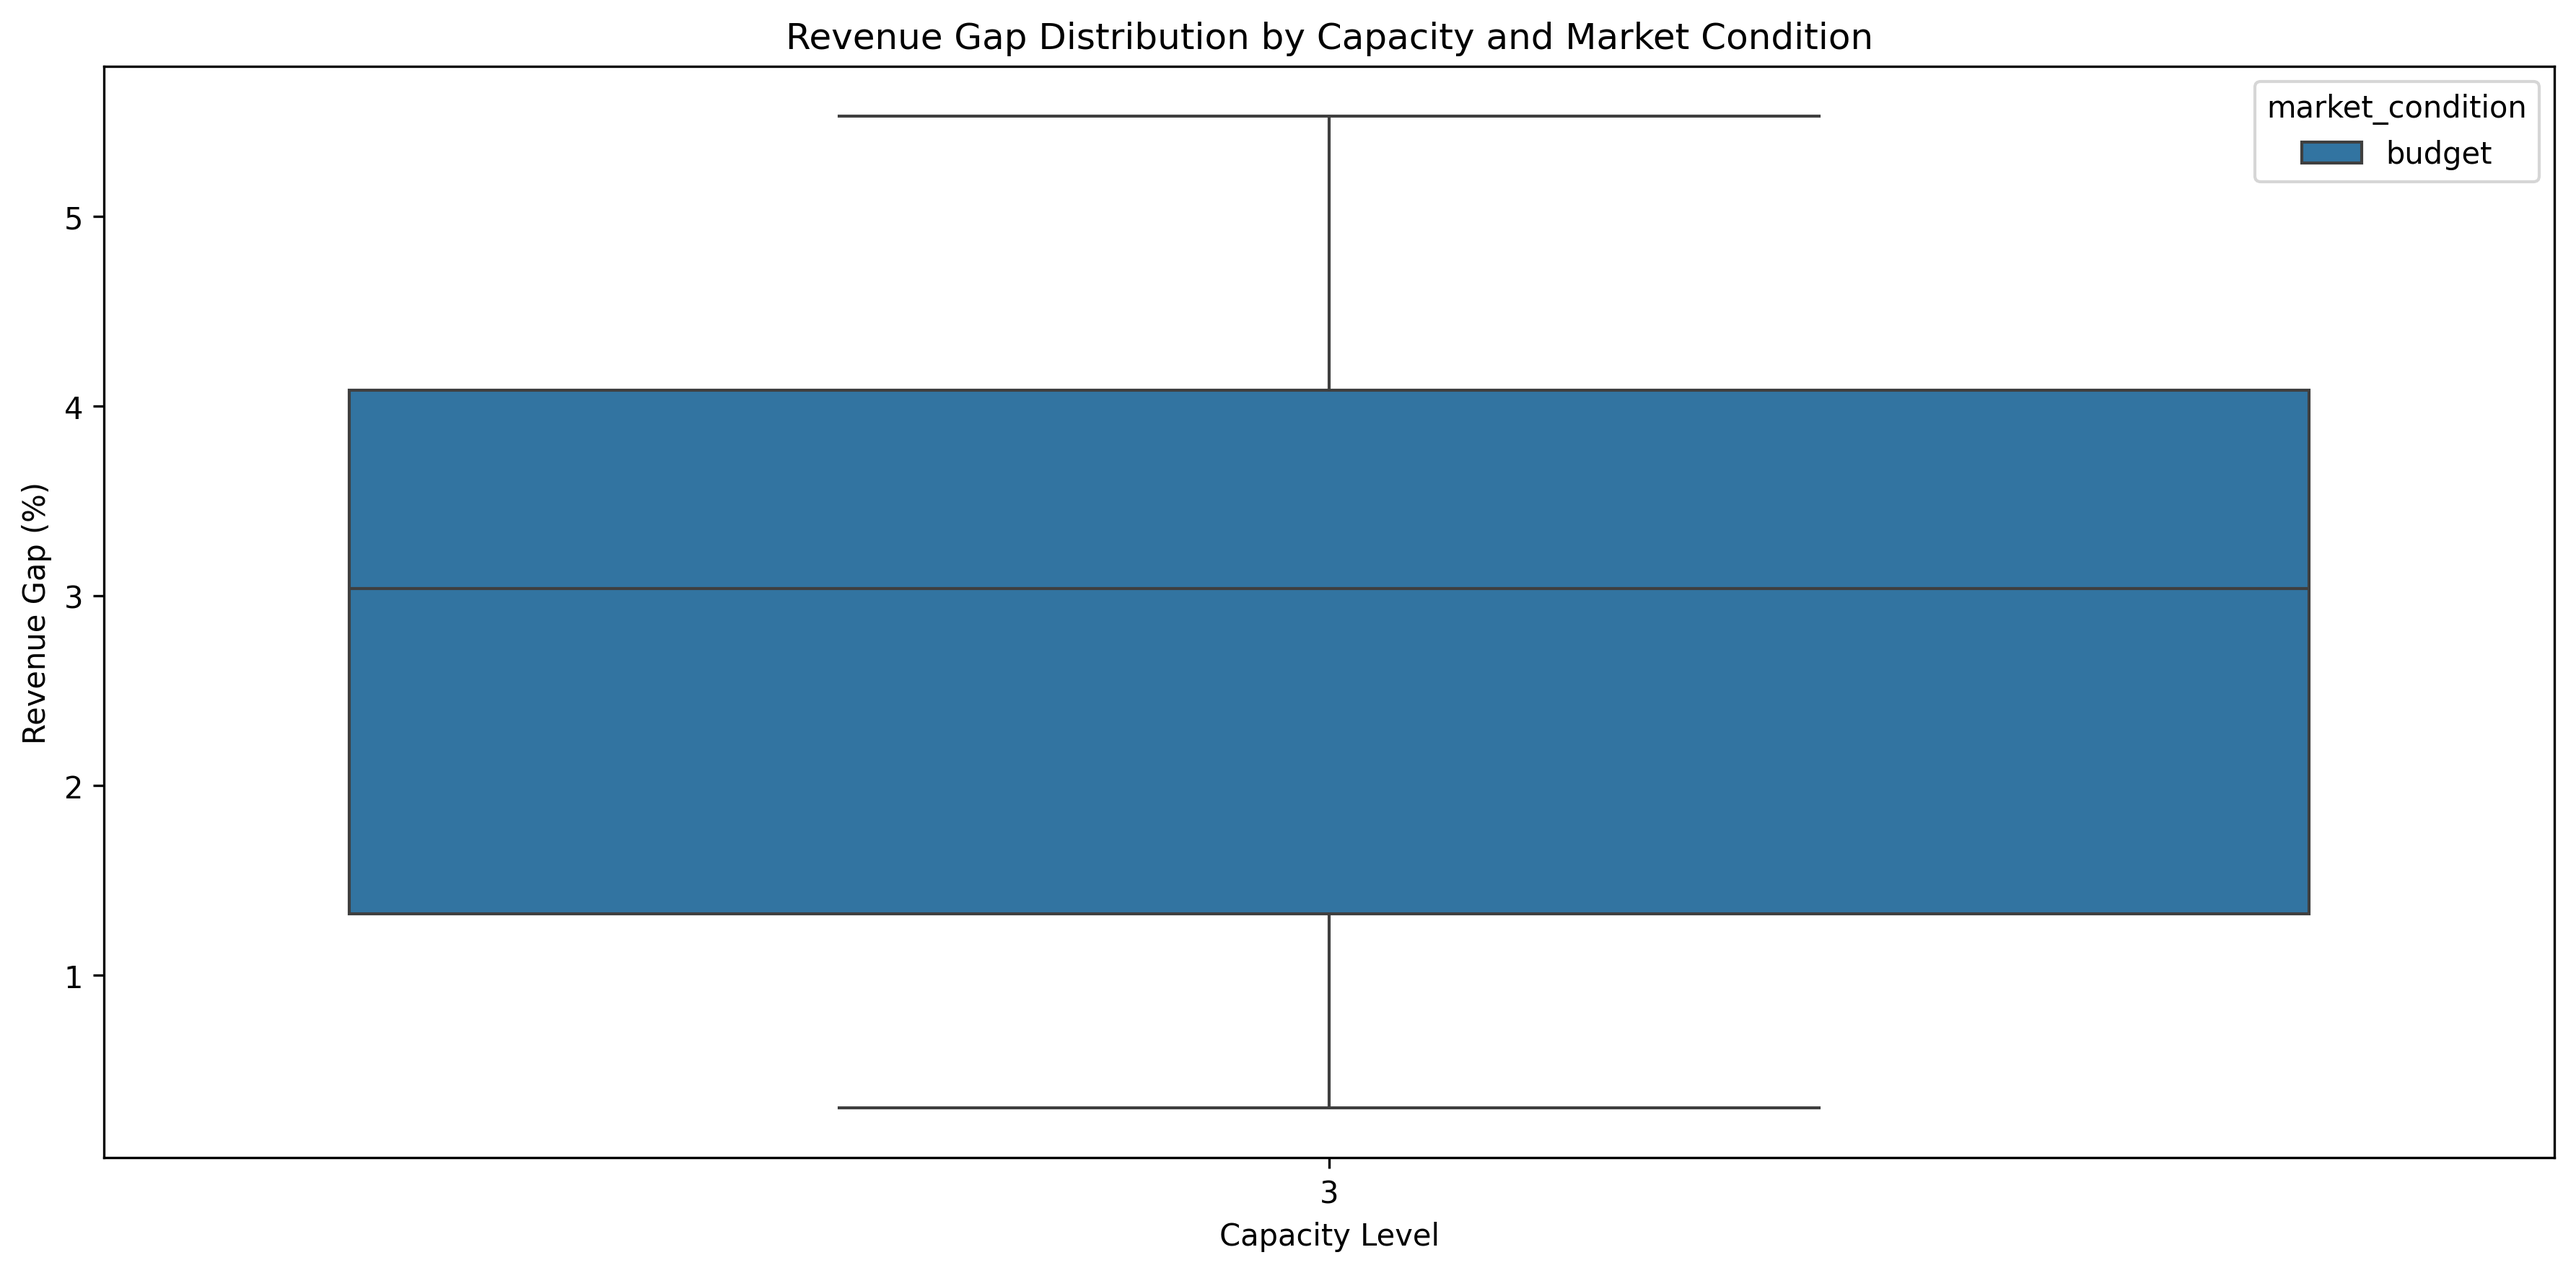
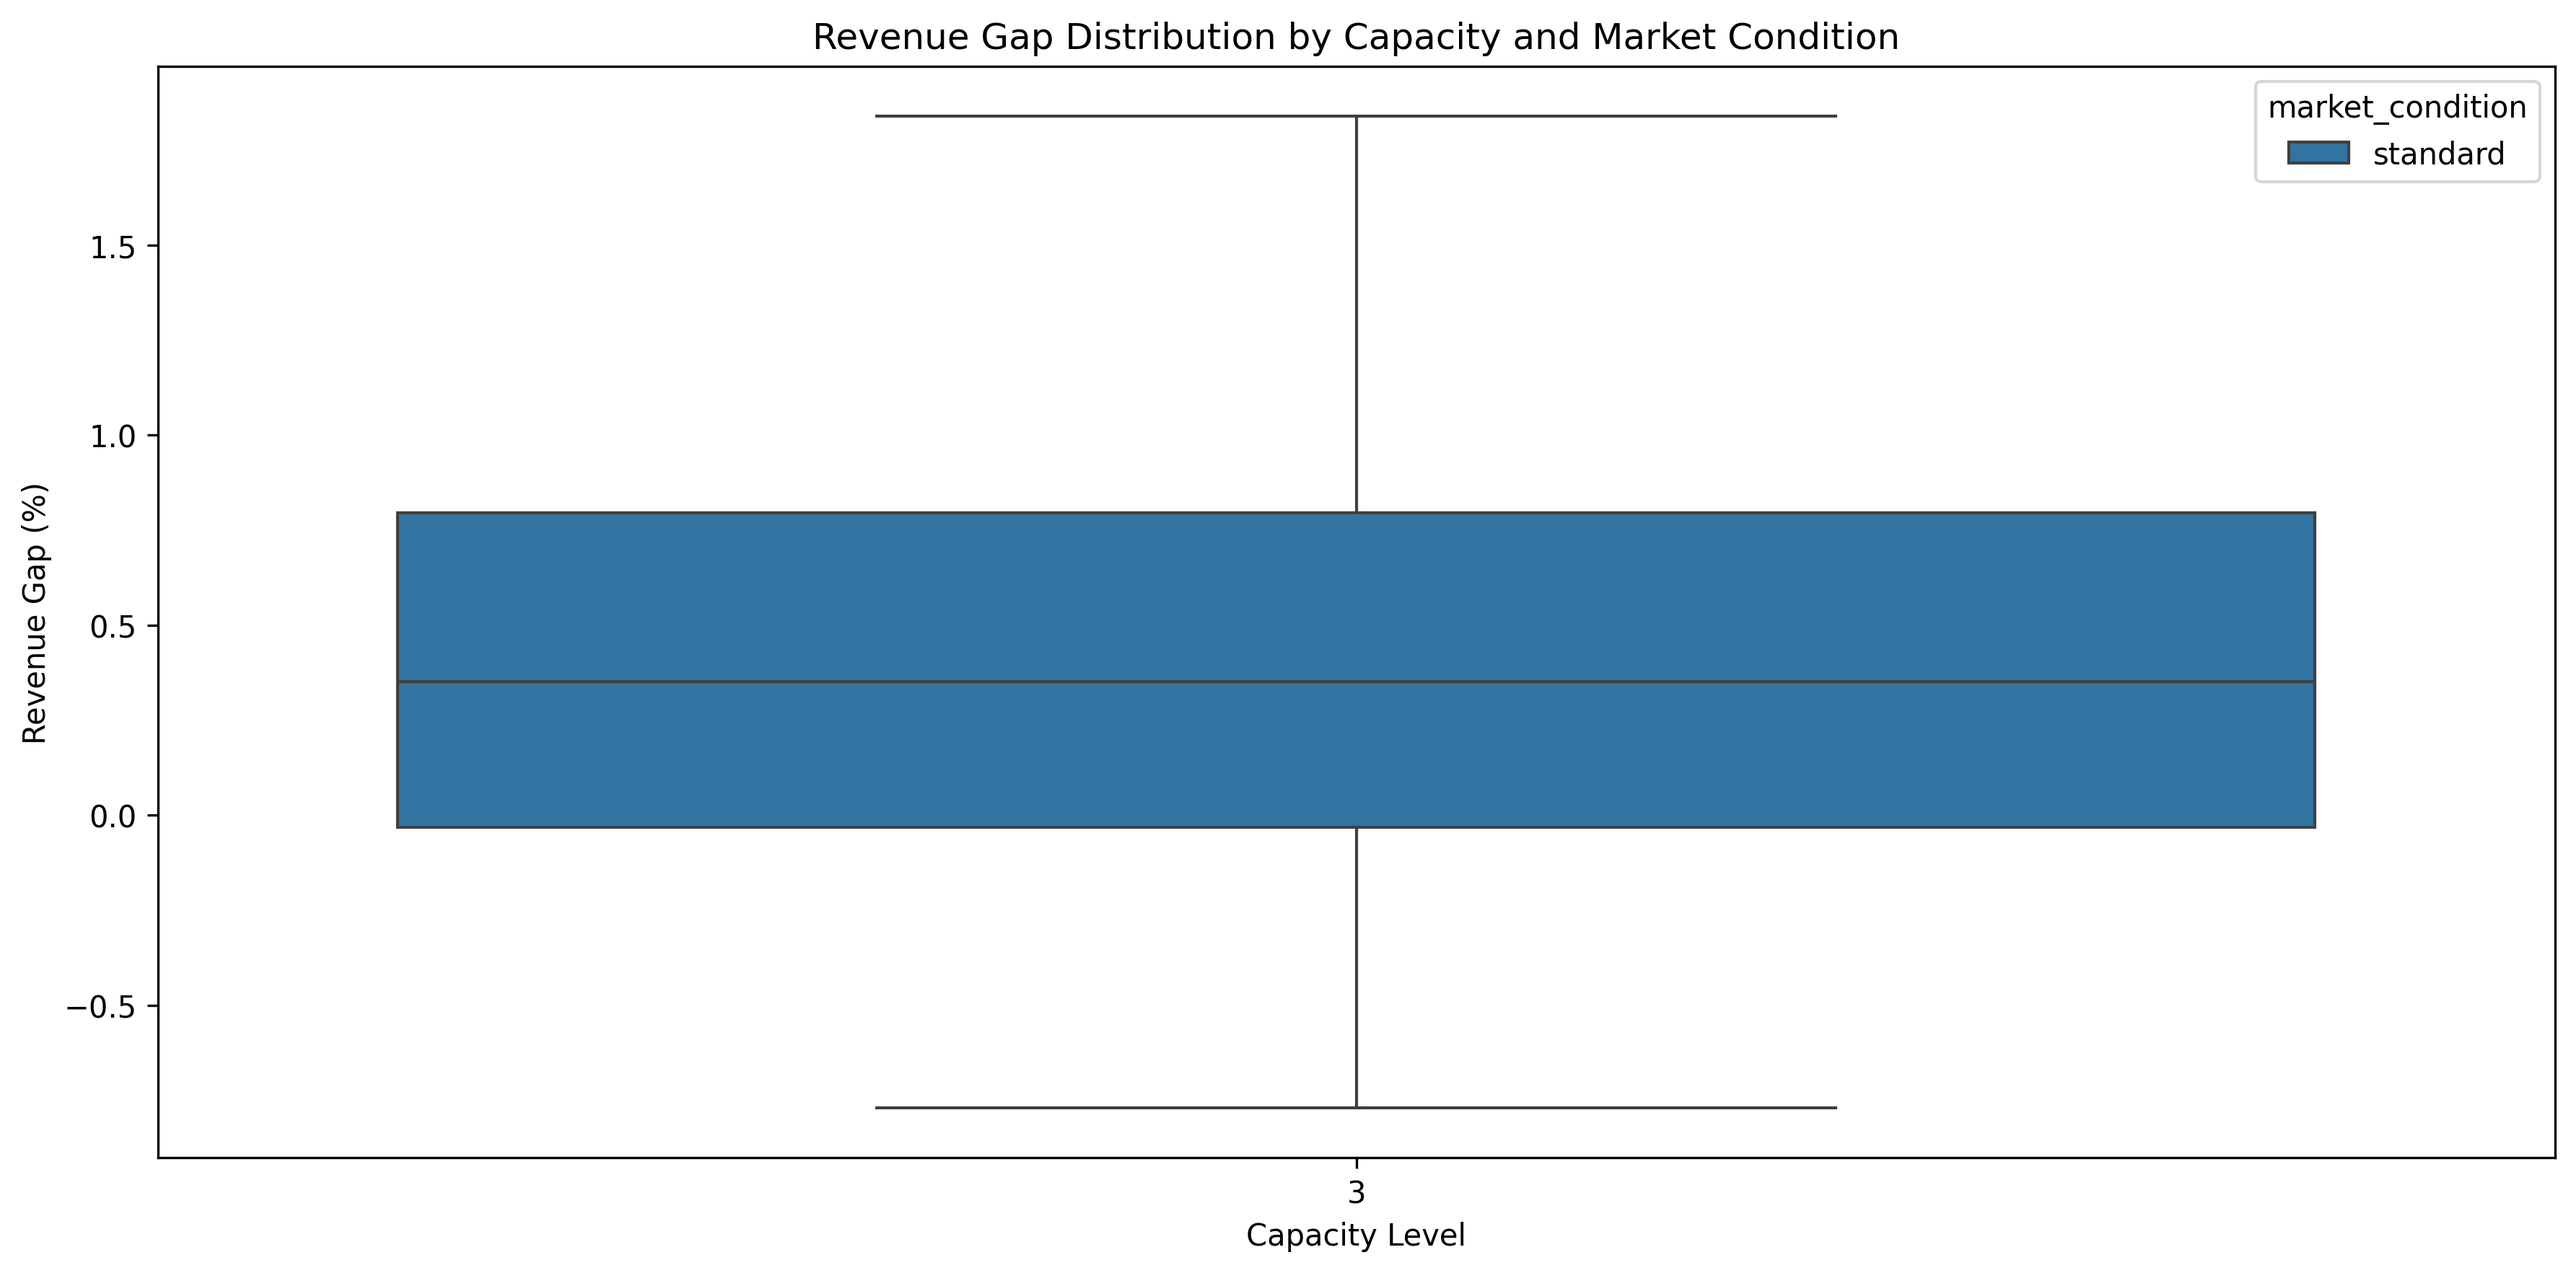
Minor update on Experiment1Runner validation methods

diff --git a/src/experiment1_solution_quality_assessment.py b/src/experiment1_solution_quality_assessment.py
@@ -16,7 +16,7 @@ import itertools
 import os
 
 from data_generator import TestConfiguration, create_test_instance
-from dynamic_pricing_algorithms import DynamicProgramming, StochasticApproximation
+from dynamic_pricing_algorithms import DynamicProgramming, StochasticApproximation, DPState
 
 # Configure logging
 logging.basicConfig(
@@ -58,8 +58,8 @@ class Experiment1Runner:
         logger.info(f"Results will be saved to: {self.output_dir}")
         
         # Define experiment parameters
-        self.T = 7  # Booking horizon
-        self.N = 7  # Service horizon
+        self.T = 5  # Booking horizon
+        self.N = 3  # Service horizon
         
         # Define parameter ranges for test instances
         # self.capacity_levels = [3, 5, 7]  # Small capacities for tractable DP
@@ -83,68 +83,11 @@ class Experiment1Runner:
         self.num_replications = 30  # Number of replications per configuration
         self.confidence_level = 0.95
         
-    def _validate_revenue_calculations(self,
-                                path: List[Tuple],
-                                dp_policy: Dict,
-                                dp_revenue: float,
-                                saa_prices: Dict,
-                                saa_revenue: float,
-                                tolerance: float = 1e-10) -> bool:
-        """
-        Verify that revenue calculations match exactly between DP and SAA evaluations.
-
-        Args:
-            path: Evaluation path
-            dp_policy: DP policy mapping states to prices
-            dp_revenue: Total revenue from DP evaluation
-            saa_prices: SAA price vectors
-            saa_revenue: Total revenue from SAA evaluation
-            tolerance: Numerical tolerance for floating point comparisons
-
-        Returns:
-            bool: True if revenue calculations are consistent
-        """
-        # Recalculate revenues step by step
-        dp_revenue_check = 0.0
-        saa_revenue_check = 0.0
-        capacity = np.full(self.N, self.C, dtype=np.int32)
-
-        for t, bt, qt in path:
-            if bt is not None:
-                # Check DP revenue calculation
-                state = DPState(capacity=tuple(capacity), time=t)
-                if state in dp_policy:
-                    stay_nights = self.class_stays[bt]
-                    if all(capacity[i] >= 1 for i in stay_nights):
-                        dp_prices = [dp_policy[state][i] for i in stay_nights]
-                        dp_avg_price = sum(dp_prices) / len(stay_nights)
-                        if qt >= dp_avg_price:
-                            dp_revenue_check += sum(dp_prices)
-
-                # Check SAA revenue calculation
-                stay_nights = self.class_stays[bt]
-                if all(capacity[i] >= 1 for i in stay_nights):
-                    saa_prices_stay = [saa_prices[t][i] for i in stay_nights]
-                    saa_avg_price = sum(saa_prices_stay) / len(stay_nights)
-                    if qt >= saa_avg_price:
-                        saa_revenue_check += sum(saa_prices_stay)
-
-        # Verify calculations match reported revenues
-        dp_match = abs(dp_revenue - dp_revenue_check) < tolerance
-        saa_match = abs(saa_revenue - saa_revenue_check) < tolerance
-
-        if not (dp_match and saa_match):
-            logger.warning("Revenue calculation mismatch detected")
-            logger.warning(f"DP Revenue: reported={dp_revenue:.2f}, calculated={dp_revenue_check:.2f}")
-            logger.warning(f"SAA Revenue: reported={saa_revenue:.2f}, calculated={saa_revenue_check:.2f}")
-
-        return dp_match and saa_match
-    
     def generate_test_instance(self, 
-                             capacity: int,
-                             demand_scenario: str,
-                             market_condition: str,
-                             seed: int) -> Dict:
+                         capacity: int,
+                         demand_scenario: str,
+                         market_condition: str,
+                         seed: int) -> Dict:
         """Generate a single test instance with specified parameters."""
         # Configure test parameters
         config = TestConfiguration()
@@ -168,6 +111,69 @@ class Experiment1Runner:
             test_configuration=test_params,
             seed=seed
         )
+    
+    def _validate_revenue_calculations(self,
+                                    path: List[Tuple],
+                                    dp_policy: Dict,
+                                    dp_revenue: float,
+                                    saa_prices: Dict,
+                                    saa_revenue: float,
+                                    instance: Dict,
+                                    tolerance: float = 1e-10) -> bool:
+        """
+        Verify that revenue calculations match exactly between DP and SAA evaluations.
+
+        Args:
+            path: Evaluation path
+            dp_policy: DP policy mapping states to prices
+            dp_revenue: Total revenue from DP evaluation
+            saa_prices: SAA price vectors
+            saa_revenue: Total revenue from SAA evaluation
+            instance: Test instance dictionary containing problem parameters
+            tolerance: Numerical tolerance for floating point comparisons
+
+        Returns:
+            bool: True if revenue calculations are consistent
+        """
+        # Get parameters from instance
+        N = instance['parameters'].N
+        C = instance['parameters'].C
+
+        # Recalculate revenues step by step
+        dp_revenue_check = 0.0
+        saa_revenue_check = 0.0
+        capacity = np.full(N, C, dtype=np.int32)
+
+        for t, bt, qt in path:
+            if bt is not None:
+                # Check DP revenue calculation
+                state = DPState(capacity=tuple(capacity), time=t)
+                if state in dp_policy:
+                    stay_nights = instance['booking_classes']
+                    if all(capacity[i] >= 1 for i in stay_nights):
+                        dp_prices = [dp_policy[state][i] for i in stay_nights]
+                        dp_avg_price = sum(dp_prices) / len(stay_nights)
+                        if qt >= dp_avg_price:
+                            dp_revenue_check += sum(dp_prices)
+
+                # Check SAA revenue calculation
+                stay_nights = instance['booking_classes']
+                if all(capacity[i] >= 1 for i in stay_nights):
+                    saa_prices_stay = [saa_prices[t][i] for i in stay_nights]
+                    saa_avg_price = sum(saa_prices_stay) / len(stay_nights)
+                    if qt >= saa_avg_price:
+                        saa_revenue_check += sum(saa_prices_stay)
+
+        # Verify calculations match reported revenues
+        dp_match = abs(dp_revenue - dp_revenue_check) < tolerance
+        saa_match = abs(saa_revenue - saa_revenue_check) < tolerance
+
+        if not (dp_match and saa_match):
+            logger.warning("Revenue calculation mismatch detected")
+            logger.warning(f"DP Revenue: reported={dp_revenue:.2f}, calculated={dp_revenue_check:.2f}")
+            logger.warning(f"SAA Revenue: reported={saa_revenue:.2f}, calculated={saa_revenue_check:.2f}")
+
+        return dp_match and saa_match
     
     def _enhanced_path_validation(self, paths: List, instance: Dict):
         """
@@ -207,11 +213,12 @@ class Experiment1Runner:
         logger.info("Enhanced path validation completed successfully")
         
     def _verify_evaluation_consistency(self,
-                                evaluation_paths: List,
-                                dp_policy: Dict,
-                                dp_revenue: float,
-                                saa_prices: Dict,
-                                saa_revenue: float) -> bool:
+                                    evaluation_paths: List,
+                                    dp_policy: Dict,
+                                    dp_revenue: float,
+                                    saa_prices: Dict,
+                                    saa_revenue: float,
+                                    instance: Dict) -> bool:
         """
         Comprehensive verification of evaluation consistency between DP and SAA.
 
@@ -221,6 +228,7 @@ class Experiment1Runner:
             dp_revenue: Total revenue from DP evaluation
             saa_prices: SAA price vectors
             saa_revenue: Total revenue from SAA evaluation
+            instance: Test instance dictionary
 
         Returns:
             bool: True if all consistency checks pass
@@ -232,14 +240,13 @@ class Experiment1Runner:
                 dp_policy,
                 dp_revenue,
                 saa_prices,
-                saa_revenue
+                saa_revenue,
+                instance
             )
 
             if not revenue_consistent:
                 logger.error("Revenue calculation consistency check failed")
                 return False
-
-            # Additional consistency checks can be added here
 
             return True
 
@@ -247,64 +254,56 @@ class Experiment1Runner:
             logger.error(f"Error in evaluation consistency check: {str(e)}")
             return False
         
-    def run_single_instance(self,
-                          instance: Dict,
-                          replication: int,
-                          eval_seed: int = None) -> Dict:
-        """Run both DP and SAA on a single test instance with shared sample paths.
-        
-        Args:
-            instance: Test instance dictionary
-            replication: Replication number
-            eval_seed: Seed for generating evaluation paths (ensures consistency)
-        """
+    def run_single_instance(self, instance: Dict, replication: int, eval_seed: int = None) -> Dict:
+        """Run both DP and SAA on a single test instance with shared sample paths."""
         try:
-            # Initialize SAA first to generate sample paths
+            # Initialize SAA
             saa = StochasticApproximation(instance, self.learning_params)
-            
-            # Set evaluation seed for consistent path generation
+
+            # Set evaluation seed
             eval_rng = np.random.default_rng(eval_seed if eval_seed is not None 
                                            else 1000 * replication)
-            
-            # Generate fixed sample paths for evaluation using controlled RNG
+
+            # Generate evaluation paths
             num_eval_paths = 1000
             evaluation_paths = []
             for _ in range(num_eval_paths):
                 path = saa._generate_sample_path(rng=eval_rng)
                 evaluation_paths.append(path)
-                
+
             # Enhanced validation
             self._enhanced_path_validation(evaluation_paths, instance)
-            
-            # Solve using Dynamic Programming
+
+            # Solve using DP
             dp = DynamicProgramming(instance)
             dp_start = datetime.now()
             dp_policy, _ = dp.solve()
             dp_time = (datetime.now() - dp_start).total_seconds()
-            
-            # Evaluate DP policy on the fixed sample paths
+
+            # Evaluate DP policy
             dp_revenue = dp.evaluate_policy(dp_policy, evaluation_paths)
-            
+
             # Solve using SAA
             saa_start = datetime.now()
             saa_prices, _, saa_time = saa.solve()
-            
-            # Evaluate SAA policy on the same fixed sample paths
+
+            # Evaluate SAA policy
             saa_revenue = saa.evaluate(saa_prices, evaluation_paths)
-            
+
             # Verify evaluation consistency
             if not self._verify_evaluation_consistency(
                 evaluation_paths,
                 dp_policy,
                 dp_revenue,
                 saa_prices,
-                saa_revenue
+                saa_revenue,
+                instance  # Pass instance to verification method
             ):
                 logger.warning("Evaluation consistency check failed")
-            
-            # Compute revenue gap
+
+            # Calculate revenue gap
             revenue_gap = ((dp_revenue - saa_revenue) / dp_revenue) * 100
-            
+
             return {
                 'capacity': instance['parameters'].C,
                 'demand_scenario': instance['scenario_info']['demand_scenario'],
@@ -318,7 +317,7 @@ class Experiment1Runner:
                 'num_eval_paths': num_eval_paths,
                 'eval_seed': eval_seed if eval_seed is not None else 1000 * replication
             }
-            
+
         except Exception as e:
             logger.error(f"Error processing instance: {str(e)}")
             return None

diff --git a/experiments/experiment1/results/experiment_report.md b/experiments/experiment1/results/experiment_report.md
@@ -4,39 +4,39 @@
 - Total test instances: 30
 - Capacity levels: [3]
 - Demand scenarios: ['base']
-- Market conditions: ['budget']
+- Market conditions: ['standard']
 - Replications per configuration: 30
 
 ## Overall Results
-- Mean revenue gap: 2.84%
-- Revenue gap 95% CI: [2.27%, 3.41%]
-- Mean DP solution time: 0.37 seconds
-- Mean SAA solution time: 25.29 seconds
+- Mean revenue gap: 0.40%
+- Revenue gap 95% CI: [0.17%, 0.63%]
+- Mean DP solution time: 0.42 seconds
+- Mean SAA solution time: 28.47 seconds
 
 ## Statistical Analysis
-- T-statistic: 10.5493
-- P-value: 0.0000
+- T-statistic: 3.6114
+- P-value: 0.0011
 
 ## Results by Capacity Level
 
 Capacity = 3
-- Mean revenue gap: 2.84%
-- Revenue gap std: 1.52%
-- Mean DP time: 0.37 seconds
-- Mean SAA time: 25.29 seconds
+- Mean revenue gap: 0.40%
+- Revenue gap std: 0.61%
+- Mean DP time: 0.42 seconds
+- Mean SAA time: 28.47 seconds
 
 ## Results by Demand Scenario
 
 Scenario: base
-- Mean revenue gap: 2.84%
-- Revenue gap std: 1.52%
-- Mean DP time: 0.37 seconds
-- Mean SAA time: 25.29 seconds
+- Mean revenue gap: 0.40%
+- Revenue gap std: 0.61%
+- Mean DP time: 0.42 seconds
+- Mean SAA time: 28.47 seconds
 
 ## Results by Market Condition
 
-Market: budget
-- Mean revenue gap: 2.84%
-- Revenue gap std: 1.52%
-- Mean DP time: 0.37 seconds
-- Mean SAA time: 25.29 seconds
+Market: standard
+- Mean revenue gap: 0.40%
+- Revenue gap std: 0.61%
+- Mean DP time: 0.42 seconds
+- Mean SAA time: 28.47 seconds
